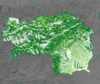
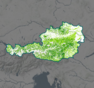
chore: updated forest mask dataset

diff --git a/app/src/config/gtif.js b/app/src/config/gtif.js
@@ -2034,14 +2034,14 @@ export const globalIndicators = [
         city: 'Styria',
         siteName: 'global',
         description: 'Annual forest mask',
-        navigationDescription: '2021',
+        navigationDescription: '2022',
         indicator: 'FCM3',
         lastIndicatorValue: null,
         indicatorName: 'Annual forest mask',
         highlights: [
           {
-            name: 'Styria overview',
-            location: wkt.read('POLYGON((13.234 48, 13.234 46.5, 16.5 46.5, 16.5 48, 13.234 48))').toJson(),
+            name: 'Austria overview',
+            location: wkt.read('POLYGON((9.5 46, 9.5 49, 17.1 49, 17.1 46, 9.5 46))').toJson(),
           },
         ],
         subAoi: {
@@ -2058,8 +2058,7 @@ export const globalIndicators = [
           protocol: 'cog',
           id: 'FCM3',
           sources: [
-            { url: 'https://eox-gtif-public.s3.eu-central-1.amazonaws.com/FCM/JR/A_FM_AnualForestMask-2021-08-31_cog_3857.tif' },
-            // { url: 'https://eox-gtif-public.s3.eu-central-1.amazonaws.com/FCM/JR/S24B_StyriaMosaic2021_Cog-001_3857.tif' },
+            { url: 'https://eox-gtif-public.s3.eu-central-1.amazonaws.com/FCM/v2/A_FM_AustriaForestMask-2022-09-01_epsg3857-v2.tif' },
           ],
           style: {
             color: [

diff --git a/app/public/data/gtif/markdown/FCM3.md b/app/public/data/gtif/markdown/FCM3.md
@@ -1,1 +1,3 @@
 ## Annual forest mask
+
+<div style="width: 100%;"><img style="float:right;" src="data/gtif/images/legends/FCM_forest_mask.png"></img></div>
